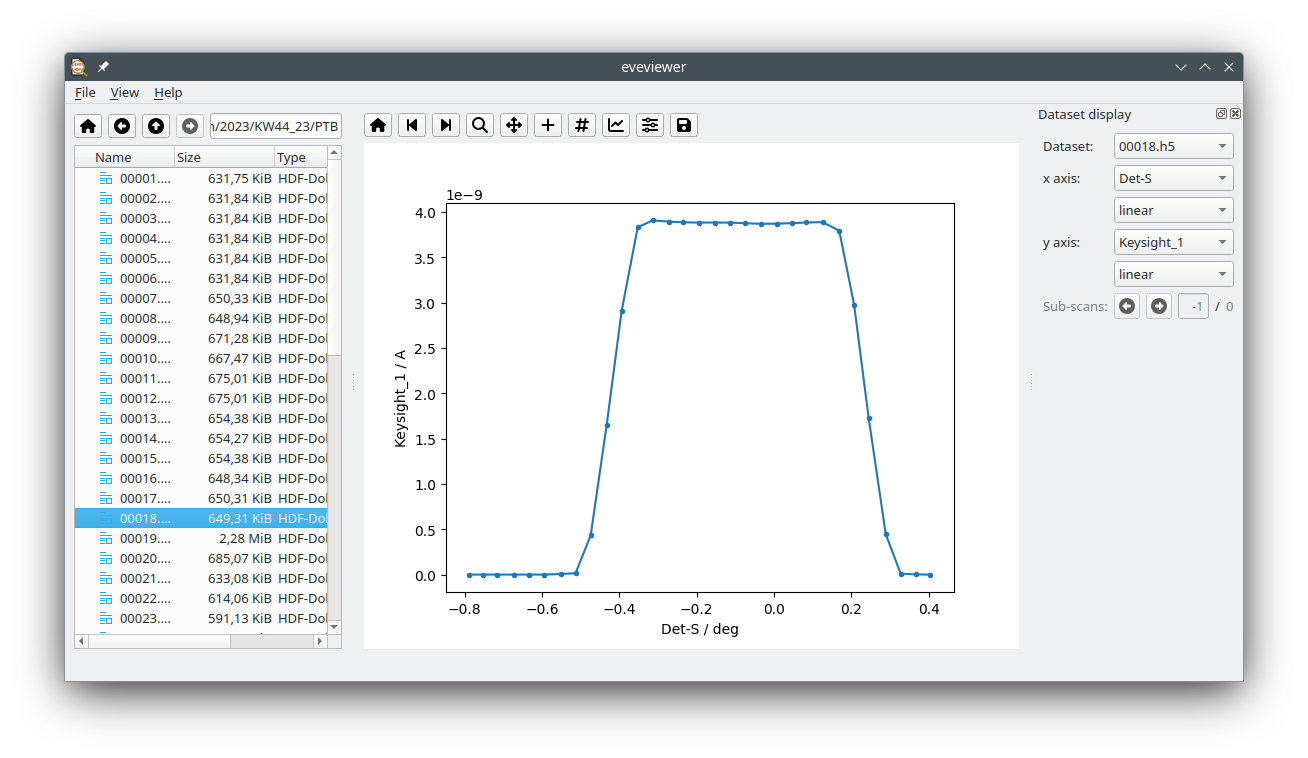
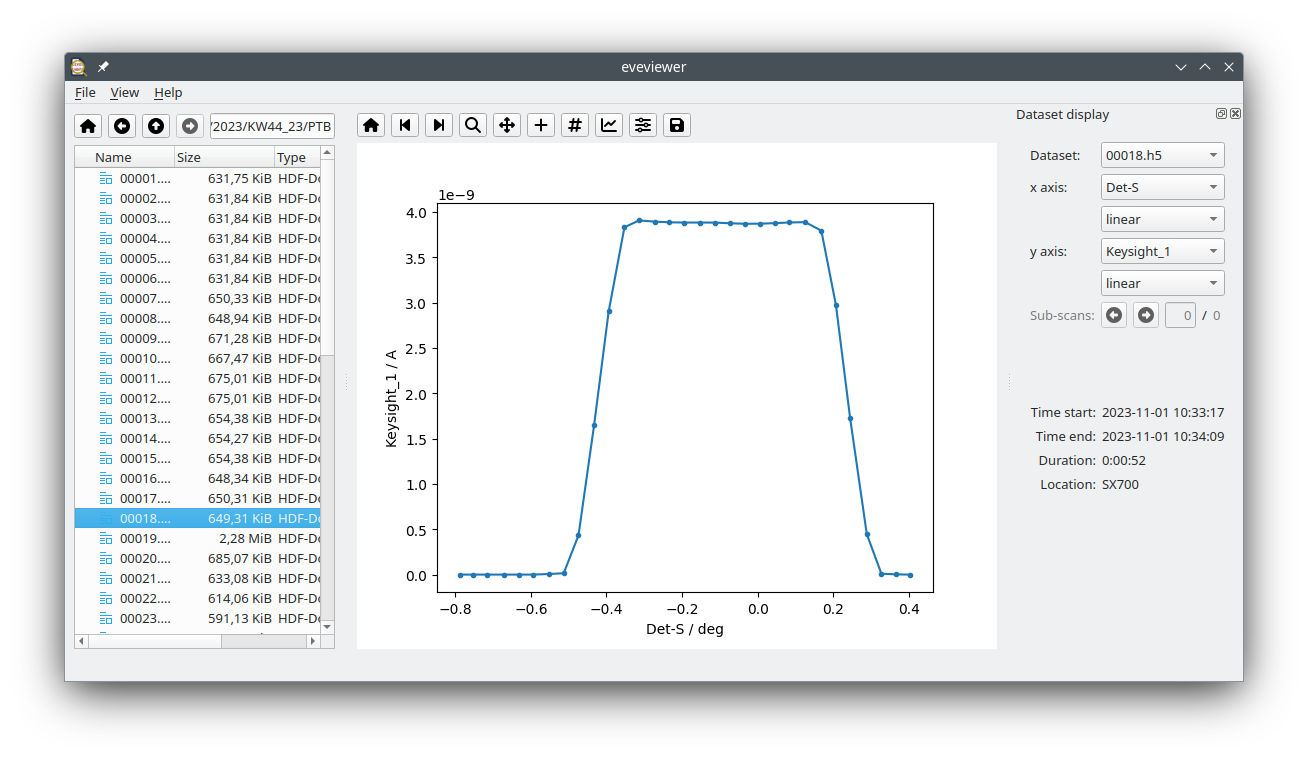
Import location in metadata

diff --git a/tests/test_io.py b/tests/test_io.py
@@ -148,3 +148,9 @@ class TestEveHDF5Importer(unittest.TestCase):
             self.dataset.metadata.measurement.start,
             self.dataset.metadata.measurement.end,
         )
+
+    @unittest.skipUnless(os.path.exists(path_to_testdata), "No test data")
+    def test_import_into_sets_location(self):
+        self.importer.source = self.path_to_testdata
+        self.importer.import_into(self.dataset)
+        self.assertTrue(self.dataset.metadata.measurement.location)

diff --git a/eveviewer/io.py b/eveviewer/io.py
@@ -260,3 +260,4 @@ class EveHDF5Importer(Importer):
         self._dataset.metadata.measurement.end = (
             datetime.datetime.fromisoformat(self._data.info["EndTimeISO"])
         )
+        self._dataset.metadata.measurement.location = self._data.location
